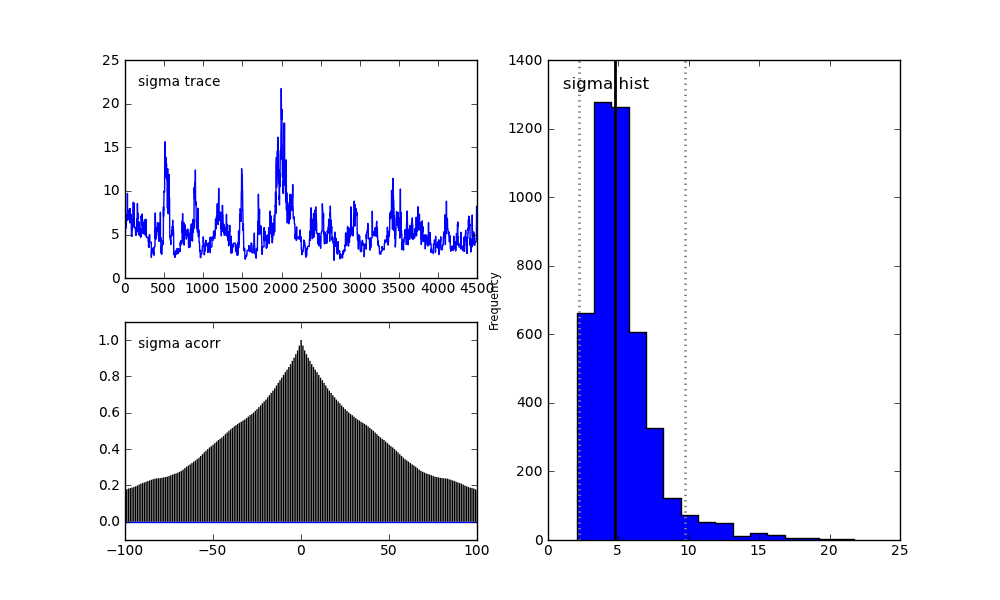
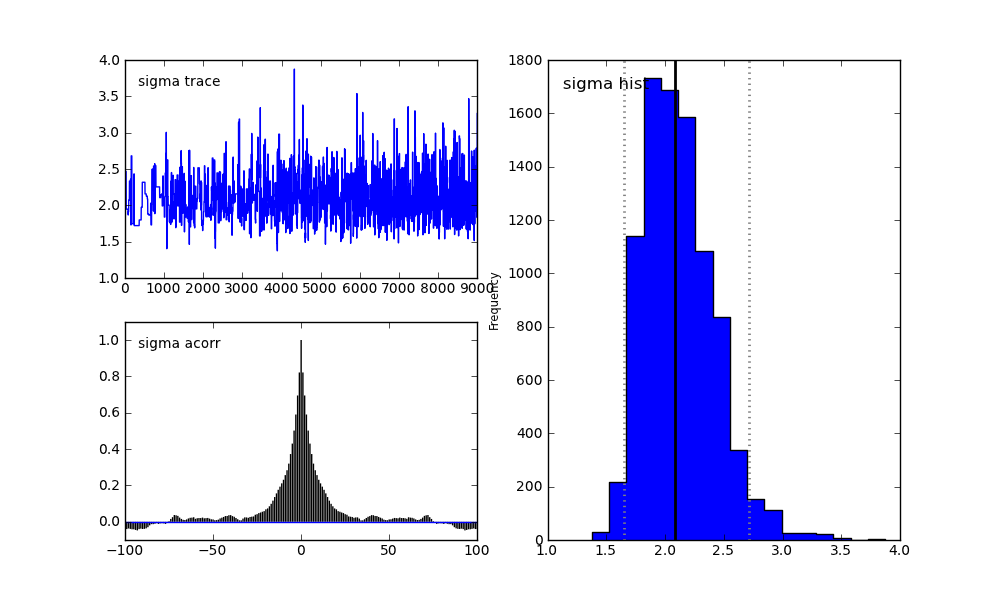
playing with sampler.py, puzzled by the constraint on the correlation coefficient of erros.

diff --git a/pyspear/sampler.py b/pyspear/sampler.py
@@ -1,6 +1,6 @@
 
 from pylab import *
-from pyspear.gp import Mean, Covariance, GPSubmodel, GPEvaluationGibbs, gpplots, FullRankCovariance
+from pyspear.gp import Mean, Covariance, GPSubmodel, GPEvaluationGibbs, gpplots, FullRankCovariance, NearlyFullRankCovariance
 #from pyspear.gp import Mean, Covariance, observe, Realization, GPutils
 from pyspear.gp.cov_funs import matern, quadratic, gaussian, pow_exp, sphere
 
@@ -26,7 +26,8 @@ class PowExpSampler(pm.MCMC):
         # = The mean =
         # ============
 
-        lcmean = pm.Uniform('lcmean', lcmean_obs-2*lcstd_obs, lcmean_obs+2*lcstd_obs,value=lcmean_obs)
+#        lcmean = pm.Uniform('lcmean', lcmean_obs-2*lcstd_obs, lcmean_obs+2*lcstd_obs,value=lcmean_obs)
+        lcmean = pm.Normal('lcmean', lcmean_obs, 1./lcstd_obs**2, value=lcmean_obs)
         def constant(x, val):
             return(np.zeros(x.shape[:-1],dtype=float) + val)
         @pm.deterministic
@@ -37,12 +38,19 @@ class PowExpSampler(pm.MCMC):
         # = The covariance =
         # ==================
 
-        sigma = pm.Exponential('sigma',7.e-5, value=lcstd_obs)
-        tau   = pm.Exponential('tau',  4.e-3, value=rx/2.0)
+#        sigma = pm.Exponential('sigma',7.e-5, value=lcstd_obs)
+        invsigsq = pm.Gamma('invsigsq', alpha = 2., beta = 1./(ry/4.)**2)
+        @pm.deterministic
+        def sigma(name="sigma", invsigsq=invsigsq):
+            return(1./np.sqrt(invsigsq))
+
+#        tau   = pm.Exponential('tau',  4.e-3, value=rx/2.0)
+        tau   = pm.InverseGamma('tau' , alpha=2., beta=1./(6./rx), value=rx/2.)
         nu    = pm.Uniform('nu', 0, 2, value=1.0)
         @pm.deterministic
         def C(nu=nu, sigma=sigma, tau=tau):
 #            C = Covariance(pow_exp.euclidean, pow=nu, amp=sigma, scale=tau)
+#            C = NearlyFullRankCovariance(pow_exp.euclidean, pow=nu, amp=sigma, scale=tau)
             C = FullRankCovariance(pow_exp.euclidean, pow=nu, amp=sigma, scale=tau)
             return(C)
 
@@ -56,7 +64,10 @@ class PowExpSampler(pm.MCMC):
         # = The data =
         # ============
 
-        errcov = pm.Uniform("errcov", lower=0.0, upper=0.5, value=0.0)
+#        errcov = pm.Uniform("errcov", lower=0.0, upper=0.5, value=0.0)
+#        errcov = pm.TruncatedNormal("errcov", 0.0, 1./0.2**2, 0.0, 1.0, value=0.0)
+#        errcov = pm.Gamma("errcov", alpha=1, beta=1./5.0, value=0.0)
+        errcov = pm.Uniform("errcov", lower=0.00, upper=0.001, value=0.0)
         @pm.deterministic
         def phvar(errcov=errcov):
             ediag = np.diag(edata*edata)

diff --git a/pyspear/predict.py b/pyspear/predict.py
@@ -97,15 +97,12 @@ class Predict(object):
         return(m,v)
 
 
-
-if __name__ == "__main__":    
-    from pylab import *
-
+def test_Predict():
+    from pylab import fill, plot, show
     jdata = np.array([25., 100, 175.])
     mdata = np.array([0.7, 0.1, 0.4])
     edata = np.array([0.07, 0.02, 0.05])
     j = np.arange(0, 200, 1)
-
     P = Predict(jdata=jdata, mdata=mdata, edata=edata, nu=1.0)
     mve, var = P.mve_var(j)
     sig = np.sqrt(var)
@@ -113,9 +110,19 @@ if __name__ == "__main__":
     y=np.concatenate((mve-sig, (mve+sig)[::-1]))
     fill(x,y,facecolor='.8',edgecolor='1.')
     plot(j, mve, 'k-.')
-
     mlist = P.generate(j, nlc=3, ewant=0.0)
     for m in mlist:
         plot(j, m)
     show()
 
+
+if __name__ == "__main__":    
+#    test_Predict()
+    j, m, e = np.genfromtxt("lc.dat", unpack=True)
+#    lcmean = np.mean(m)
+    lcmean = 10.0
+    print(lcmean)
+    P = Predict(lcmean=lcmean, 
+            tau=10.0, sigma=2.0, nu=0.5)
+    mwant = P.generate(j, nlc=1, ewant=lcmean*0.05)
+    np.savetxt("lc_m10t10s2n0.5e0.05.dat", np.vstack((j, mwant, e)).T)

diff --git a/pyspear/MCMC.py b/pyspear/MCMC.py
@@ -2,7 +2,11 @@ from sampler import PowExpSampler
 from pylab import *
 import numpy as np
 
-jdata, mdata, edata = np.genfromtxt("lc.dat", unpack=True)
+#jdata, mdata, edata = np.genfromtxt("lc.dat", unpack=True)
+#jdata, mdata, edata = np.genfromtxt("lc_m10t50s4n0.5.dat", unpack=True)
+#jdata, mdata, edata = np.genfromtxt("lc_m10t50s3n0.5.dat", unpack=True)
+#jdata, mdata, edata = np.genfromtxt("lc_m10t50s3n0.5e0.05.dat", unpack=True)
+jdata, mdata, edata = np.genfromtxt("lc_m10t10s2n0.5e0.05.dat", unpack=True)
 
 powexp = PowExpSampler('test', jdata, mdata, edata)
 
@@ -10,9 +14,9 @@ powexp = PowExpSampler('test', jdata, mdata, edata)
 #iter=100000
 #thin=iter/2000
 #burn=50000
-iter=5000
-thin=1
-burn=500
+iter=20000
+thin=2
+burn=2000
 powexp.isample(iter=iter,burn=burn,thin=thin)
 
 close('all')
